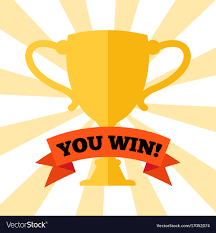
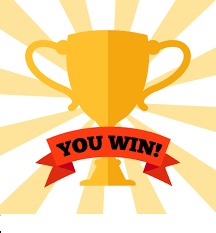
Minor improvements
It is kind of unfortunate that I found many small details to improve right after I pushed
the commit to GitHub.

diff --git a/main.cpp b/main.cpp
@@ -149,6 +149,12 @@ int main (void)
     }
   }
 
+  SDL_Rect win_material;
+  win_material.x = 0;
+  win_material.y = 0;
+  win_material.w = 216;
+  win_material.h = 200;
+
   while (running) {
 
     SDL_Event event;
@@ -204,9 +210,8 @@ int main (void)
       for (vector<SDL_Rect>::size_type i = 0; i < show_materials.size(); ++i) 
         SDL_RenderCopy(renderer, texture, &materials[show_board[i]], &show_materials[i]);
     else if (game_state == WIN) 
-      SDL_RenderCopy(renderer, win_texture, nullptr, nullptr);
+      SDL_RenderCopy(renderer, win_texture, &win_material, nullptr);
     else {
-      // cout << "result: " << game_state << endl;
       SDL_RenderCopy(renderer, lose_texture, nullptr, nullptr);
     }
 
@@ -215,6 +220,8 @@ int main (void)
 
   IMG_Quit();
   SDL_DestroyTexture(texture);
+  SDL_DestroyTexture(win_texture);
+  SDL_DestroyTexture(lose_texture);
   SDL_DestroyWindow(window);
   SDL_DestroyRenderer(renderer);
   SDL_Quit();
@@ -341,8 +348,8 @@ void doMouseAction (Uint32 mouse_state, int mouse_x, int mouse_y,
       }
     }
   } else if (mouse_state & SDL_BUTTON(SDL_BUTTON_RIGHT)) {
-    if (show_board[index] == 0)
-      show_board[index] = 1;
+    if (show_board[index] == 0 || show_board[index] == 1)
+      show_board[index] ^= 1;
   }
 }
 
